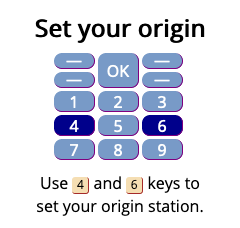
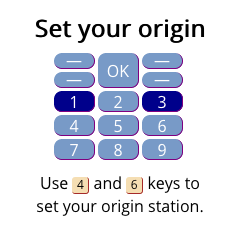
User 1,3,4,6 to select stations.

diff --git a/webapp/es5/NextCaltrain.js b/webapp/es5/NextCaltrain.js
@@ -27,7 +27,7 @@ var screens = 'hero grid trip about commands'.split(' ');
 var titles = { 'about': 'About Next Caltrain', 'commands': 'Keypad commands' };
 var email = 'next-caltrain@netpress.com';
 
-var hints = [['Set your origin', [4, 6], 'Use [4] and [6] keys to<br/>set your origin station.'], ['Set destination', [7, 9], 'Use [7] and [9] keys to<br/>set destination station.'], ['Select a train', [5, 8], 'Use [5] and [8] keys to<br/>move seletion up or down.'], ['Flip direction', ['c'], 'Press the [CALL] button to<br/>flip the selected stations'], ['Save stations', ['l'], 'Press the [LEFT] softkey to<br/>select "Save Stations".'], ['Bookmark app', ['r'], 'Press the [RIGHT] softkey to<br/>select "Pin to Apps Menu".'], ['Change schedule', [2], 'Press [2] to cycle through<br/>available schedules.'], ['Thanks for using<br/> Next Caltrain', `Please send feedback to<br/>&nbsp;<a href="mailto:${email}">${email}</a>.`, 'Note: The cursor (arrow)<br/>is not used by this app,<br/>just move it to the right.']];
+var hints = [['Set your origin', [1, 3], 'Use [4] and [6] keys to<br/>set your origin station.'], ['Set destination', [4, 6], 'Use [7] and [9] keys to<br/>set destination station.'], ['Select a train', [5, 8], 'Use [5] and [8] keys to<br/>move seletion up or down.'], ['Flip direction', ['c'], 'Press the [CALL] button to<br/>flip the selected stations'], ['Save stations', ['l'], 'Press the [LEFT] softkey to<br/>select "Save Stations".'], ['Bookmark app', ['r'], 'Press the [RIGHT] softkey to<br/>select "Pin to Apps Menu".'], ['Change schedule', [2], 'Press [2] to cycle through<br/>available schedules.'], ['Thanks for using<br/> Next Caltrain', `Please send feedback to<br/>&nbsp;<a href="mailto:${email}">${email}</a>.`, 'Note: The cursor (arrow)<br/>is not used by this app,<br/>just move it to the right.']];
 
 var hintIndex = -1;
 
@@ -409,16 +409,16 @@ var NextCaltrain = function () {
           offset--;
         } else if (code === DOWN) {
           offset++;
-        } else if (code === 52) {
+        } else if (code === 49) {
           offset = null;
           prefs.bumpStations(true, false);
-        } else if (code === 54) {
+        } else if (code === 51) {
           offset = null;
           prefs.bumpStations(true, true);
-        } else if (code === 55) {
+        } else if (code === 52) {
           offset = null;
           prefs.bumpStations(false, false);
-        } else if (code === 57) {
+        } else if (code === 54) {
           offset = null;
           prefs.bumpStations(false, true);
         } else if (code === 'flip') {

diff --git a/src/NextCaltrain.js b/src/NextCaltrain.js
@@ -24,9 +24,9 @@ const titles = {'about':'About Next Caltrain', 'commands':'Keypad commands'};
 const email = 'next-caltrain@netpress.com';
 
 const hints = [
-  ['Set your origin', [4,6],
+  ['Set your origin', [1,3],
    'Use [4] and [6] keys to<br/>set your origin station.'],
-  ['Set destination', [7,9],
+  ['Set destination', [4,6],
    'Use [7] and [9] keys to<br/>set destination station.'],
   ['Select a train', [5,8],
    'Use [5] and [8] keys to<br/>move seletion up or down.'],
@@ -415,18 +415,20 @@ class NextCaltrain {
         offset--;
       } else if (code === DOWN) {
         offset++;
-      } else if (code === 52) { // 4
+      } else if (code === 49) { // 1
         offset = null;
         prefs.bumpStations(true, false);
-      } else if (code === 54) { // 6
+      } else if (code === 51) { // 3
         offset = null;
         prefs.bumpStations(true, true);
-      } else if (code === 55) { // 7
+      } else if (code === 52) { // 4
         offset = null;
         prefs.bumpStations(false, false);
-      } else if (code === 57) { // 9
+      } else if (code === 54) { // 6
         offset = null;
         prefs.bumpStations(false, true);
+   // } else if (code === 55) { // 7
+   // } else if (code === 57) { // 9
       } else if (code === 'flip') {
         offset = null;
         prefs.flipStations();

diff --git a/webapp/index.html b/webapp/index.html
@@ -164,7 +164,7 @@
       <div class="keycol">
         <button onclick="NextCaltrain.press('rsk')" class="phone"><div class="rounded upper-right"></div></button>
         <button onclick="NextCaltrain.press(95)" class="phone"><div class="rounded lower-right"></div></button>
-        <button onclick="NextCaltrain.press(50)">3</button>
+        <button onclick="NextCaltrain.press(51)">3</button>
         <button onclick="NextCaltrain.press(54)">6</button>
         <button onclick="NextCaltrain.press(57)">9</button>
         <button onclick="NextCaltrain.press('#')">#</button>
